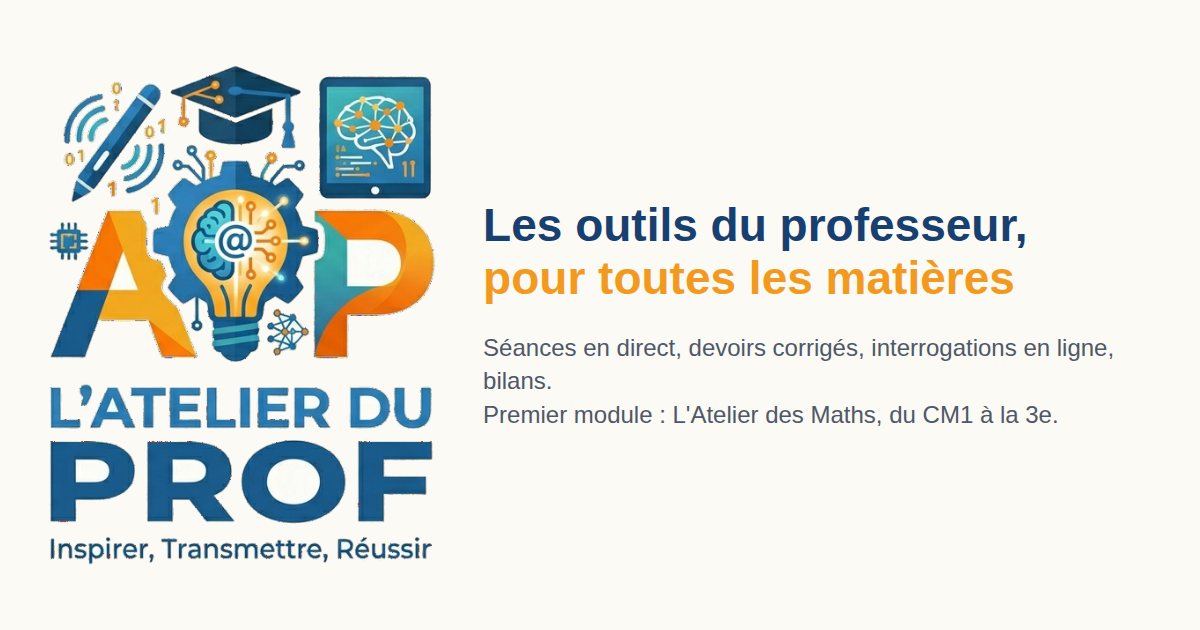
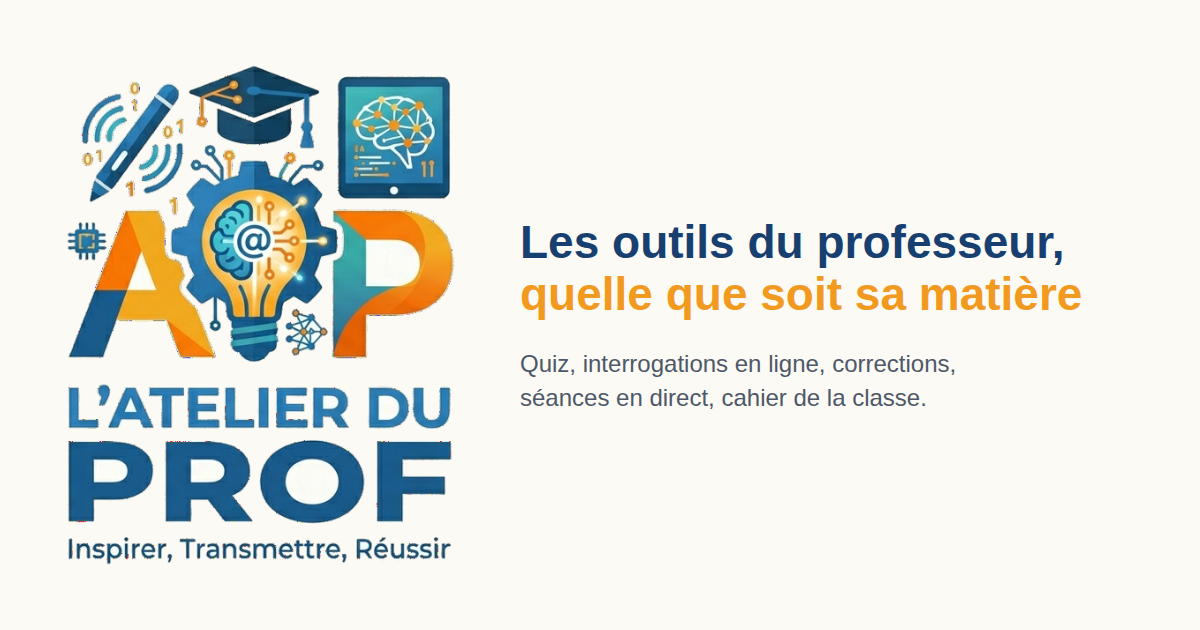
L'Atelier du Prof : les outils communs pour toutes les matières, sans modules par matière
Claude-Session: https://claude.ai/code/session_01Bck5Zj23XtYH4Wg2EzL6Bn

Changed region(s): [[0.0308, 0.0905, 0.925, 0.573], [0.0308, 0.5429, 0.925, 0.9048]]

diff --git a/index.html b/index.html
@@ -3,14 +3,14 @@
 <head>
 <meta charset="utf-8">
 <meta name="viewport" content="width=device-width, initial-scale=1">
-<title>L'Atelier du Prof — les outils du professeur, pour toutes les matières</title>
-<meta name="description" content="L'Atelier du Prof réunit les outils du professeur conçus et éprouvés en classe : cahier de la classe, devoirs corrigés, interrogations en ligne, séances en direct, bilans. Premier module disponible : L'Atelier des Maths, du CM1 à la 3e.">
+<title>L'Atelier du Prof — les outils du professeur, quelle que soit sa matière</title>
+<meta name="description" content="Quiz, interrogations en ligne, corrections, séances en direct, cahier de la classe : les outils du professeur, conçus et éprouvés en classe, pour toutes les matières.">
 <link rel="canonical" href="https://adp.latelieraugmente.fr/">
 <meta property="og:type" content="website">
 <meta property="og:site_name" content="L'Atelier du Prof">
 <meta property="og:locale" content="fr_FR">
 <meta property="og:title" content="L'Atelier du Prof — Inspirer, Transmettre, Réussir">
-<meta property="og:description" content="Les outils du professeur, conçus et éprouvés en classe, pour toutes les matières. Premier module : L'Atelier des Maths, du CM1 à la 3e.">
+<meta property="og:description" content="Quiz, interrogations en ligne, corrections, séances en direct, cahier de la classe : les outils du professeur, conçus et éprouvés en classe, pour toutes les matières.">
 <meta property="og:url" content="https://adp.latelieraugmente.fr/">
 <meta property="og:image" content="https://adp.latelieraugmente.fr/img/og-image.png">
 <meta name="twitter:card" content="summary_large_image">
@@ -137,7 +137,7 @@
     <a class="marque" href="#"><img src="img/logo-adp-mark.png" alt=""><span>L'Atelier du Prof</span></a>
     <nav>
       <a href="#outils">Les outils</a>
-      <a href="#matieres">Les matières</a>
+      <a href="#matieres">Toutes les matières</a>
       <a href="#prevenu">Être prévenu</a>
       <a class="btn btn-plein" href="https://maths.latelieraugmente.fr" target="_blank" rel="noopener">L'Atelier des Maths</a>
     </nav>
@@ -149,11 +149,11 @@
     <img class="hero-logo" src="img/logo-adp.png" alt="L'Atelier du Prof — Inspirer, Transmettre, Réussir">
     <div>
       <span class="devise">Inspirer · Transmettre · Réussir</span>
-      <h1>Les outils du professeur, <em>pour toutes les matières</em></h1>
-      <p class="lead">Préparer ses cours, faire classe en direct, donner des devoirs corrigés tout seuls, suivre chaque élève : L'Atelier du Prof réunit des outils conçus par un professeur et éprouvés chaque semaine en classe avec L'Atelier des Maths, et les ouvre à toutes les disciplines.</p>
+      <h1>Les outils du professeur, <em>quelle que soit sa matière</em></h1>
+      <p class="lead">Quiz, interrogations en ligne, corrections, séances en direct, cahier de la classe : L'Atelier du Prof réunit, pour tous les professeurs, des outils conçus par un professeur et éprouvés chaque semaine en classe. Vous y mettez vos questions et vos documents ; l'outil fait le reste.</p>
       <div class="actions">
         <a class="btn btn-plein" href="#outils">Découvrir les outils</a>
-        <a class="btn btn-ligne" href="#prevenu">Être prévenu pour ma matière</a>
+        <a class="btn btn-ligne" href="#prevenu">Être prévenu de l'ouverture</a>
       </div>
     </div>
   </div>
@@ -161,43 +161,39 @@
 
 <div class="deja">
   <div class="wrap">
-    <p><b>Déjà en classe :</b> le premier module, L'Atelier des Maths, est utilisé depuis la rentrée 2026, avec tous ces outils.</p>
-    <div class="chiffres">
-      <div class="chiffre">CM1→3e<small>niveaux couverts</small></div>
-      <div class="chiffre">119<small>chapitres de cours</small></div>
-    </div>
+    <p><b>Déjà éprouvés en classe :</b> ces outils sont nés dans <a href="https://maths.latelieraugmente.fr" target="_blank" rel="noopener" style="color:#fff;">L'Atelier des Maths</a>, utilisé chaque semaine depuis la rentrée 2026. L'Atelier du Prof les ouvre à toutes les matières.</p>
   </div>
 </div>
 
 <section class="bloc" id="outils">
   <div class="wrap">
     <div class="titre-sec">
-      <span class="etiquette">Les outils communs</span>
+      <span class="etiquette">Les outils</span>
       <h2>Avant, pendant et après la classe</h2>
-      <p>Ces outils ne dépendent d'aucune matière : ils fonctionnent avec vos cours, vos exercices et vos classes.</p>
+      <p>Aucun contenu imposé : vous créez vos quiz et vos interrogations, ou vous les faites proposer par l'IA, et vous les utilisez avec vos classes.</p>
     </div>
     <div class="temps">
       <div class="t1">
         <h3><span>1</span>Préparer</h3>
-        <div class="outil"><b>Cours personnalisables</b><p>Chaque professeur masque, déplace, réécrit ou complète le cours ; ses élèves voient sa version, et il peut la partager avec ses collègues.</p></div>
-        <div class="outil"><b>Évaluations en quelques minutes</b><p>Exercices proposés par l'IA, barème, mise en page : la copie est prête à imprimer.</p></div>
-        <div class="outil"><b>Interrogations et entraînements en ligne</b><p>QCM, réponses courtes, questions ouvertes, photo de copie ; en interrogation notée ou en entraînement où l'élève réessaie.</p></div>
+        <div class="outil"><b>Quiz et interrogations</b><p>QCM, vrai-faux, réponses courtes, textes à trous, associer, classer, remettre dans l'ordre, questions ouvertes avec photo de la copie ; notés ou en simple entraînement. Et des sondages.</p></div>
+        <div class="outil"><b>Avec l'IA, si vous le souhaitez</b><p>Un quiz ou une évaluation proposés à partir de votre thème ou de votre texte : vous relisez, corrigez, gardez ce qui vous convient.</p></div>
+        <div class="outil"><b>Une banque à partager</b><p>Vos quiz et interrogations restent disponibles d'une année sur l'autre, et se partagent entre collègues.</p></div>
       </div>
       <div class="t2">
         <h3><span>2</span>Faire classe</h3>
-        <div class="outil"><b>Séances en direct</b><p>Une télécommande pour faire avancer la classe ou la laisser libre, voir chaque copie en direct, prendre la main sur celle d'un élève, lui envoyer un mot d'aide.</p></div>
+        <div class="outil"><b>Séances en direct</b><p>Une télécommande pour faire avancer la classe ou la laisser travailler à son rythme, voir chaque copie en direct, prendre la main sur celle d'un élève, lui envoyer un mot d'aide.</p></div>
         <div class="outil"><b>Questions flash avec les cartes</b><p>Chaque élève lève sa carte A, B, C ou D : le téléphone du professeur lit toute la classe d'un coup, sans ordinateur pour les élèves.</p></div>
-        <div class="outil"><b>Correction projetée et caméra du téléphone</b><p>Le cahier d'un élève filmé, projeté au tableau, annoté, puis gardé dans le cahier de la classe, que chaque élève retrouve jour après jour.</p></div>
+        <div class="outil"><b>Le cahier de la classe</b><p>Ce qui a été fait en classe, jour après jour : documents, corrections, cahier d'un élève filmé au téléphone et projeté. Chaque élève le retrouve chez lui.</p></div>
       </div>
       <div class="t3">
-        <h3><span>3</span>Suivre</h3>
-        <div class="outil"><b>Devoirs corrigés tout seuls</b><p>Médailles, nombre d'essais et temps de travail réel de chaque élève, sans rien corriger à la main.</p></div>
-        <div class="outil"><b>Correction et carnet de notes</b><p>Copie par copie ou question par question, avec l'aide de l'IA pour les questions ouvertes ; les résultats vont à l'élève et au carnet de notes.</p></div>
+        <h3><span>3</span>Corriger et suivre</h3>
+        <div class="outil"><b>Corrections</b><p>Ce qui se corrige seul est corrigé seul. Le reste se corrige copie par copie ou question par question, avec l'aide de l'IA si vous le voulez.</p></div>
+        <div class="outil"><b>Devoirs et carnet de notes</b><p>Devoirs à la maison avec le temps de travail réel de chaque élève ; les notes vont à l'élève et au carnet de notes.</p></div>
         <div class="outil"><b>Bilans</b><p>Après chaque séance : qui a réussi quoi, mains levées, sorties de la page. Pour la classe : la progression de chacun sur l'année.</p></div>
       </div>
     </div>
     <div class="plus">
-      <div><b>Apprendre ses leçons</b><p>Réciter une définition à voix haute, remettre ses mots dans l'ordre : l'élève apprend en jouant.</p></div>
+      <div><b>Apprendre ses leçons</b><p>Réciter une définition à voix haute, remettre les mots d'une phrase dans l'ordre : pour toute leçon à savoir.</p></div>
       <div><b>Comptes élèves simples</b><p>Créés par le professeur, sans adresse e-mail : identifiant et mot de passe, rien de plus.</p></div>
       <div><b>IA facultative</b><p>Tout fonctionne sans elle ; elle fait gagner du temps quand on la souhaite.</p></div>
       <div><b>Données en Europe</b><p>Comptes et résultats hébergés dans l'Union européenne.</p></div>
@@ -208,51 +204,21 @@
 <section class="bloc alt" id="matieres">
   <div class="wrap">
     <div class="titre-sec">
-      <span class="etiquette">Les matières</span>
-      <h2>Un noyau commun, un module par matière</h2>
-      <p>Chaque module apporte les cours et les exercices de sa discipline, et ses outils propres. Les outils communs, eux, sont les mêmes pour tous.</p>
+      <span class="etiquette">Toutes les matières</span>
+      <h2>Les mêmes outils, vos contenus</h2>
+      <p>Quelques exemples de ce qu'on en fait, d'une matière à l'autre.</p>
     </div>
     <div class="matieres">
-      <div class="matiere dispo">
-        <span class="etat">Disponible</span>
-        <h3>Mathématiques</h3>
-        <p>L'Atelier des Maths, du CM1 à la 3e : cours complets, méthodes animées, figures construites pas à pas aux instruments, géométrie dynamique, automatismes, manuel d'exercices.</p>
-        <a href="https://maths.latelieraugmente.fr" target="_blank" rel="noopener">Ouvrir L'Atelier des Maths →</a>
-      </div>
-      <div class="matiere">
-        <span class="etat">En réflexion</span>
-        <h3>Sciences</h3>
-        <p>SVT, physique-chimie, technologie : schémas à légender, protocoles, mesures et graphiques, programmation par blocs.</p>
-        <a href="#prevenu" data-matiere="Sciences">Être prévenu →</a>
-      </div>
-      <div class="matiere">
-        <span class="etat">En réflexion</span>
-        <h3>Français</h3>
-        <p>Lecture, grammaire, orthographe, rédaction : analyse de phrase, dictées, textes à annoter.</p>
-        <a href="#prevenu" data-matiere="Français">Être prévenu →</a>
-      </div>
-      <div class="matiere">
-        <span class="etat">En réflexion</span>
-        <h3>Histoire-géographie et EMC</h3>
-        <p>Frises chronologiques, cartes à compléter, documents à analyser.</p>
-        <a href="#prevenu" data-matiere="Histoire-géographie et EMC">Être prévenu →</a>
-      </div>
-      <div class="matiere">
-        <span class="etat">En réflexion</span>
-        <h3>Langues vivantes</h3>
-        <p>Vocabulaire, compréhension orale et écrite, expression.</p>
-        <a href="#prevenu" data-matiere="Langues vivantes">Être prévenu →</a>
-      </div>
-      <div class="matiere">
-        <span class="etat">À vous de nous dire</span>
-        <h3>Une autre matière ?</h3>
-        <p>Dites-nous laquelle : les matières les plus demandées passeront en premier.</p>
-        <a href="#prevenu" data-matiere="Autre">Proposer une matière →</a>
-      </div>
+      <div class="matiere"><h3>Français</h3><p>Une question ouverte sur un texte, corrigée copie par copie ; les définitions de figures de style apprises en les récitant.</p></div>
+      <div class="matiere"><h3>Histoire-géographie</h3><p>Un quiz de repères en questions flash, cartes levées ; un croquis photographié et corrigé.</p></div>
+      <div class="matiere"><h3>Langues vivantes</h3><p>Le vocabulaire de la semaine en entraînement, à refaire jusqu'à le savoir ; une interrogation notée le jour J.</p></div>
+      <div class="matiere"><h3>Sciences</h3><p>Une séance en direct où chacun répond, la correction au fil de l'eau, et le schéma d'un élève projeté au tableau.</p></div>
+      <div class="matiere"><h3>École primaire</h3><p>Questions flash sans ordinateur, cahier de la classe pour les familles, comptes élèves sans adresse e-mail.</p></div>
+      <div class="matiere dispo"><span class="etat">Pour les maths</span><h3>L'Atelier des Maths</h3><p>Les mêmes outils, avec en plus les cours du CM1 à la 3e, la géométrie aux instruments et le manuel d'exercices.</p><a href="https://maths.latelieraugmente.fr" target="_blank" rel="noopener">Ouvrir L'Atelier des Maths →</a></div>
     </div>
     <div class="noyau">
       <img src="img/logo-adp-mark.png" alt="">
-      <p><b>Pour un établissement :</b> une seule licence pour toute l'équipe. Chaque professeur retrouve les outils communs, et le module de sa matière dès qu'il est disponible.</p>
+      <p><b>Pour un établissement :</b> une seule licence pour toute l'équipe, toutes matières confondues.</p>
     </div>
   </div>
 </section>
@@ -261,8 +227,8 @@
   <div class="wrap prevenu">
     <div class="titre-sec">
       <span class="etiquette">Être prévenu</span>
-      <h2>Votre matière vous intéresse ?</h2>
-      <p>Laissez-nous votre adresse et votre matière : nous vous écrirons quand son module sera prêt, et nous vous proposerons peut-être de le tester en avant-première dans votre classe.</p>
+      <h2>Vous voulez l'essayer ?</h2>
+      <p>Laissez-nous votre adresse : nous vous écrirons à l'ouverture, et nous vous proposerons peut-être de le tester en avant-première avec vos classes.</p>
       <p style="margin-top:14px;">Vous enseignez les mathématiques ? <a href="https://maths.latelieraugmente.fr" target="_blank" rel="noopener">L'Atelier des Maths est déjà ouvert</a>.</p>
     </div>
     <form id="formPrevenu">
@@ -270,25 +236,23 @@
       <label>Votre matière
         <select id="fMatiere" required>
           <option value="">Choisir…</option>
-          <option>Sciences (SVT, physique-chimie, technologie)</option>
           <option>Français</option>
           <option>Histoire-géographie et EMC</option>
           <option>Langues vivantes</option>
-          <option>Professeur des écoles (toutes matières)</option>
+          <option>Sciences (SVT, physique-chimie, technologie)</option>
+          <option>Arts, musique, EPS</option>
+          <option>Professeur des écoles</option>
           <option>Autre</option>
         </select>
       </label>
       <div><span class="petit" style="font-weight:600;color:var(--bleu-fonce);">Vos niveaux</span>
         <div class="cases" id="fNiveaux" style="margin-top:6px;">
           <label><input type="checkbox" value="École">École</label>
-          <label><input type="checkbox" value="6e">6e</label>
-          <label><input type="checkbox" value="5e">5e</label>
-          <label><input type="checkbox" value="4e">4e</label>
-          <label><input type="checkbox" value="3e">3e</label>
+          <label><input type="checkbox" value="Collège">Collège</label>
           <label><input type="checkbox" value="Lycée">Lycée</label>
         </div>
       </div>
-      <label>Un message <span class="petit" style="display:inline;">(facultatif : l'outil qui vous manque le plus…)</span><textarea id="fMessage" rows="3"></textarea></label>
+      <label>Un message <span class="petit" style="display:inline;">(facultatif : l'outil qui vous intéresse le plus…)</span><textarea id="fMessage" rows="3"></textarea></label>
       <button class="btn btn-orange" type="submit">Être prévenu</button>
       <p class="petit">Votre messagerie s'ouvre avec le message prêt à envoyer à contact@latelieraugmente.fr. Votre adresse ne sert qu'à vous prévenir.</p>
     </form>
@@ -303,12 +267,6 @@
 </footer>
 
 <script>
-  // « Être prévenu → » d'une matière : la matière est présélectionnée dans le formulaire.
-  document.querySelectorAll('[data-matiere]').forEach(a => a.addEventListener('click', () => {
-    const v = a.dataset.matiere, s = document.getElementById('fMatiere');
-    const o = [...s.options].find(x => x.value.startsWith(v) || x.textContent.startsWith(v));
-    if (o) s.value = o.value;
-  }));
   // Pas encore de base de données ici : le message part de la messagerie de l'enseignant.
   document.getElementById('formPrevenu').addEventListener('submit', e => {
     e.preventDefault();
@@ -316,7 +274,7 @@
     const matiere = document.getElementById('fMatiere').value;
     const niveaux = [...document.querySelectorAll('#fNiveaux input:checked')].map(x => x.value).join(', ') || 'non précisés';
     const msg = document.getElementById('fMessage').value.trim();
-    const corps = `Bonjour,\n\nJe souhaite être prévenu(e) de l'ouverture de L'Atelier du Prof pour ma matière.\n\nMatière : ${matiere}\nNiveaux : ${niveaux}\nAdresse : ${email}${msg ? `\n\nMessage : ${msg}` : ''}\n`;
+    const corps = `Bonjour,\n\nJe souhaite être prévenu(e) de l'ouverture de L'Atelier du Prof.\n\nMatière : ${matiere}\nNiveaux : ${niveaux}\nAdresse : ${email}${msg ? `\n\nMessage : ${msg}` : ''}\n`;
     location.href = 'mailto:contact@latelieraugmente.fr?subject=' + encodeURIComponent("L'Atelier du Prof : " + matiere) + '&body=' + encodeURIComponent(corps);
   });
 </script>
